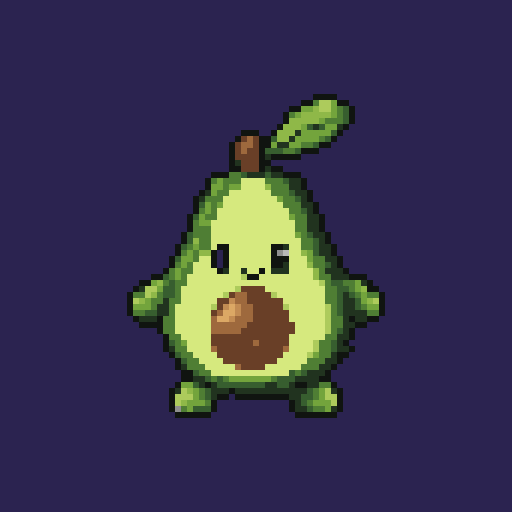
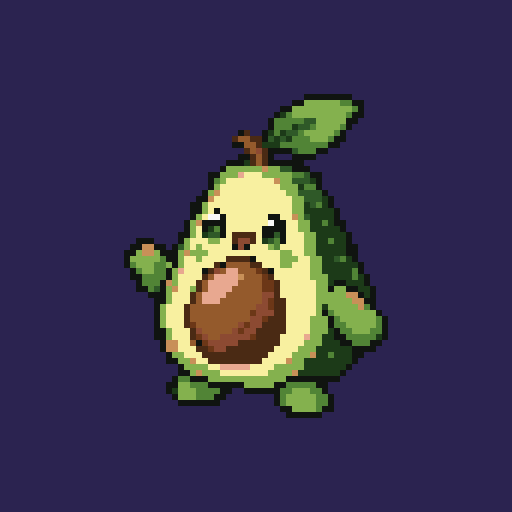
Aguacatito: new 56x56 pixel art (exact, master palette); art page shows the art first
The color palette moved to the bottom of the art page. App icons regenerated.

Changed region(s): [[0.2188, 0.1562, 0.7812, 0.8438]]

diff --git a/src/style/palabritas.ts b/src/style/palabritas.ts
@@ -5,7 +5,7 @@
   54 px tall so it clears the health boxes.
   Palabritas not listed here are drawn from shapes in art/creatures.ts.
 
-  Sources (made with ChatGPT, turned back into real pixels): art-src/avocado palabrita.png,
+  Sources (made with ChatGPT): art-src/avocado_front.png + avocado_back.png (real 56x56 pixels, master palette: exact),
   art-src/wood_pigeon_front_56x56.png + wood_pigeon_back_56x56.png (real 56x56 pixels, colors grouped),
   art-src/Salchichita_front.png + Salchichita_back.png (real 56x56 pixels, master palette: exact).
 */
@@ -17,118 +17,122 @@ export interface SpriteArt {
 
 export const PALABRITA_ART: Record<string, SpriteArt> = {
   aguacatito: {
-    pal: {'a': '#375e2f', 'b': '#101410', 'c': '#4f7e34', 'd': '#d6e97e', 'e': '#73a43c', 'f': '#693f27', 'g': '#8fb848', 'h': '#21331f', 'i': '#adcb5c', 'j': '#9e693d', 'k': '#c28b53', 'l': '#dca865', 'm': '#8f8f8f', 'n': '#b8b8b8'},
+    pal: { a: '#1c3a18', b: '#101410', c: '#84b14e', d: '#518436', e: '#f8f0a0', f: '#2f5928', g: '#4a2a14', h: '#945a2c', i: '#8c4a32', j: '#c89058', k: '#e8a890', l: '#6c3717', m: '#f8f8f8' },
     front: [
-      '...............................bbbb........',
-      '.............................bbciiebb......',
-      '...........................bbeegiiecab.....',
-      '..........................bcegggggecab.....',
-      '..........................bgggggecccab.....',
-      '.........................bgggeahaeehb......',
-      '...................bbb..bgggheeeeeab.......',
-      '..................bfjfbbaggheeeecab........',
-      '.................bfjjfbbehheeccabb.........',
-      '.................bfjffbaaaccabbb...........',
-      '.................bffffbhbbbbb..............',
-      '.................bhfffbb...................',
-      '.................bbfffbhbb.................',
-      '..............bbbccahhhahhbbb..............',
-      '.............bcecccddddcccahhb.............',
-      '.............beeceeddddgccchhb.............',
-      '............bheccdddddddcccahhb............',
-      '...........bhcccdddddddddeccahb............',
-      '...........baeceddddddddddccchhb...........',
-      '...........bcecddddddddddddccahb...........',
-      '..........baeccddddddddddddecchhb..........',
-      '..........bceeddddddddddddddcchhb..........',
-      '..........bcccddddddddddddddcchhb..........',
-      '.........bacccddddddddddddddecahhb.........',
-      '.........bagccdddddddddddddddccahb.........',
-      '........baceccdbbdddddddbbhddccahhb........',
-      '........bcecggb.bdddddddbmnddgeahhb........',
-      '.......baeecddb.bdddddddbbbdddecchhb.......',
-      '.......bcecdddb.bdddddddbbhdddgccahb.......',
-      '......bceccddddbhddhddbdhhhddddgchhhb......',
-      '....bbacecdddddddddibbdddddddddgcchhhbbb...',
-      '..bbegcaccddddddddddddddddddddddicaaccehb..',
-      '.bhiieaacdddddddddiffffddddddddddccaacegbb.',
-      'bccigcaacdddddddifjjffffiddddddddccahaceccb',
-      'bigecchccddddddffkjjffffffdddddddccahhaegib',
-      'beeechhcddddddifklkjjfffffiddddddicahhaceeb',
-      'bccaahhcddddddfjllkjjffffffddddddicahhhhccb',
-      '.bhhhbccddddddjllkjjjffffffddddddicchbhhbb.',
-      '..bbbbccddddddjjjjjjffffffffdddddicchhbb...',
-      '.....bccddddddjjjjjfffffffffdddddicahb.....',
-      '......bccdddddfffffffffffffddddddcchhb.....',
-      '......baceddddfffffffjfffffddddiccahb......',
-      '......bhccddddjfffffffffffjddddiccahhb.....',
-      '.......baccddddfffffffffffddddiecchbb......',
-      '........baccddddfffffffffdddddccchhb.......',
-      '........bhcccdddddjffffddddddccchhb........',
-      '.........bbaccdddddddddddddacahhhb.........',
-      '.........bbhhacaceeeeeeecaaahhhhbb.........',
-      '........beeahbhaaaaaaaahhaahbbhhccb........',
-      '.......bhigecahhhbhhhhhhhhhhhhaceihb.......',
-      '.......biiiecahbb.bbbbbbbbbhhaaceiib.......',
-      '.......bigeeecb............bhaceeeib.......',
-      '.......bmceaaab............bhhaccehb.......',
-      '........bbbbbb..............bbbbbbb........',
+      '........................................................',
+      '....................................bbbbbbbb............',
+      '..................................bbccccccddbb..........',
+      '................................bbccccccccccdb..........',
+      '...............................badcccccccccdbb..........',
+      '..............................bdddddffcccccbb...........',
+      '..............................bdddaffdccccdb............',
+      '.........................bg..badaffdcccccdb.............',
+      '........................ghhggbfafadddcccdbb.............',
+      '........................bbhhgaaaddddddddbb..............',
+      '..........................ghigbbbbfdddbb................',
+      '.........................bbghgb...bbbb..................',
+      '.......................bbbaghgbbbbbb....................',
+      '......................bccccccjccffbbb...................',
+      '....................bbccckeeecccccddfbb.................',
+      '....................bdceeeeeeeejccfffab.................',
+      '....................bceeeeeeeeeecccaddb.................',
+      '...................bcjeeeeeeeeeeeccffffb................',
+      '..................bbjeeeeeeeeeeeeeccfffab...............',
+      '.................bbceeeeeeeeeeeeeeccafdab...............',
+      '.................bbcebeeeeeeeeeeeeccaaaaab..............',
+      '.................bcemmbeeeeeeebbeejcfaaaab..............',
+      '................bcjbbbbeeeeeeembbeeccaadabb.............',
+      '................bcebadbeeeeeebbbbeeccaaaaab.............',
+      '...............bbceaffbeggggebbfbeeeccaaaaab............',
+      '........bbb....bceeecceegiigeafdbeeeccaadaab............',
+      '.......bbjjbb.bfceceeeeebibeeecdeeeeccaaaaabb...........',
+      '......bbcjjcbbbcjccceeeeeeeeeeeecceeccaaaaabb...........',
+      '......bcccccdbbceeceeeeggggbeeeeccceeccaafdab...........',
+      '......bdcccddcbceeeeegbhhhhggeeecceeeccaaaaaab..........',
+      '.......bdccddbckeeebgihkkhhhlgbeeeeeeccaaaaadb..........',
+      '.......bbddddbceeeeghkkkkjhhhlgeeeeeecccaaaadab.........',
+      '........bdddbjceeeghkkkkkhhhhllgeeeeeeccabbaaab.........',
+      '........bbdfbcjeecghkkkkhhhhhllgeeeeeeccbccbbaab........',
+      '..........bbbceeeghkkkkhhhhhhiigeeeeeecccccjjbab........',
+      '...........bbceeeghkkkhhhhhhhilggeeeeeccccccjjbb........',
+      '...........bceeeghhhhhhhhhhhiilggeeeeecacccccjdb........',
+      '...........bceeeghhhhhhhhhhliiiggeeeeecbdcccccccb.......',
+      '...........bceeeghhhhhhhhhhiilgggeeeecccbdccccccdb......',
+      '...........bceeeglhhhhhhhiliiggggeeeecccbddcccccdb......',
+      '...........bbceeegihhhhhiliigggggeeeecccabddcccddb......',
+      '...........bbceeeglihhiiiiilggggeeeekccaabbdddddab......',
+      '............bjjeehbliiiiigggggggeeeecccaaabbdddbb.......',
+      '............bjjeeeggliiggggggggeeeecccaaaaaabbbb........',
+      '.............bcceeegggggggggggeeeecccjaadaaabb..........',
+      '.............bbccjeegggggggggeeeejccaaaaaaaab...........',
+      '...............bcccceekkkkkeeeecccccaaaaaaab............',
+      '...............bbcjccceeeeeeeeccccjaaaaaaab.............',
+      '..............bddbbbcccccccccccccbbbbbbbbb..............',
+      '.............bbccdddbbbbbbcccccbbdddddbb................',
+      '.............bacccddddbb..bbbbbbddcccddb................',
+      '..............bcccdddbb........bdcccccddb...............',
+      '...............bbbbbbb.........bdcccccddb...............',
+      '................................bbccccdbb...............',
+      '.................................bbbbbb.................',
+      '........................................................',
     ],
     back: [
-      '.................................bbbb.......',
-      '.............................bbbbiieab......',
-      '............................baegeiieecb.....',
-      '...........................begggggeeccb.....',
-      '...........................bgggggeccccb.....',
-      '..........................beigechaechb......',
-      '....................bb...bggehaegeecb.......',
-      '...................bjfb.bcgehgeeecab........',
-      '..................bjjfbbbeheeecaabb.........',
-      '..................bjffbhchacaabbb...........',
-      '..................bjffbbhbbbbb..............',
-      '..................bfffbbbb..................',
-      '.................bbbffbhhbb.................',
-      '..............bbbacaaaaaaahbbb..............',
-      '.............bccgecccaaaaaaahhb.............',
-      '.............bceeecccaaaaaaahhhb............',
-      '............bbeeecccacaaaaaaahhb............',
-      '...........bhceeccccacaaaaaaahhbb...........',
-      '...........bcegeccccacaaaaaaaaahhb..........',
-      '...........bceeccccccaaaaaaaaaahhb..........',
-      '..........baceececaacaaaaaaaaaahhb..........',
-      '..........bacececcccaaaaaaaaaaaahhb.........',
-      '..........bccceeccaacaaaaaaaaaaahhb.........',
-      '.........bacccecccaacaaaaaaaaaaahhb.........',
-      '.........baceecccacacaaaaaaaaaaahhhb........',
-      '........bhccceccacccaaaaaaaaaaaahhhb........',
-      '........baccccccccccaaaaaaaaaaaaahhhb.......',
-      '.......baccceccccccaaaaaaaaaaaaaahhhb.......',
-      '.......bcccecccccccaaaaaaaaaaaaahahhhb......',
-      '......bacaceccccccaaaaaaaaaaaaaahahhhbb.....',
-      '....bbhcaccccccccaaaaaaaaaaaaaaahahhhhhb....',
-      '..bbcecaaccccccccacaaaaaaaaaaahhahahhaceb...',
-      '.beigechacacccccaacaaaaaaaaaahhaaahhhhacgbb.',
-      'bcgiecahcaacccccacaaaaaaaaaaaaaaahhhhhacgccb',
-      'bigecahhcacccccaacaaaaaaaaaaaaaahhhhhhhaegib',
-      'bgecahhhcaccccaacaaaaaaaaaaaaaaahhhhhbhhcceb',
-      'bccaahbaaaccccacaaaaaaaaaaaaaaahhahhhbhhaccb',
-      '.bhhhbhaacaacacaaaaaaaaaaaaaaaahahhhhhbhhbb.',
-      '..bbbbaaaacaacaaaaaaaaaaaaaaaaaahhhhhhhbb...',
-      '.....baaaaaccaaaaaaaaaaaaaaaaaahahhhhhhb....',
-      '......baaaaaaaaaaaaaaaaaaaaaahahhhhhhhb.....',
-      '......bhaaahaaaaaaaaaaaahaaahahhhhhhhhb.....',
-      '......bhhaaaaaaaaaaaaaaahaahahhhhhhhhhb.....',
-      '.......bhhaahhaaaaaaaahaaahaahhhhhhhbb......',
-      '.......bhhhaahaaaaaaahaaahahhhhhhhhhb.......',
-      '........bhhhaahhaaaahhaahhhhhhhhhhhhb.......',
-      '.........bhhhhaahhahaahhhhhhhhhhhhhb........',
-      '..........bbhhhhhhhhhhhhhhhhhhhhhbb.........',
-      '.........bcahhbhhhhhhhhhhhhhhbbbhhcb........',
-      '........bhiecahhhbbbbbbbbbbhhhhhaciab.......',
-      '........biiecahhb..........bhhhhaeiib.......',
-      '........bieecchb............bbhaceeib.......',
-      '........bhecaahb..............bbhacb........',
-      '.........bbbbbb.................bbb.........',
+      '........................................................',
+      '..............bbbbbbb...................................',
+      '............bbbdcccccbb.................................',
+      '............bddddccccccbbb..............................',
+      '.............bdddddddddddbb.............................',
+      '.............bbdddddaaddddb.............................',
+      '.............bbddddddaaddddb............................',
+      '..............bfddddddaaaddbb...........................',
+      '...............bfddddddaaaaab.gbbg......................',
+      '...............bbffdddddddaabbihhb......................',
+      '................bbbddddbbbbaghhgg.......................',
+      '...................bbbbb...bghig........................',
+      '........................bbbbihgbb.......................',
+      '......................bbbaagligabb......................',
+      '....................bbaaaaaaaadccbb.....................',
+      '...................bbaaddaddadddddbb....................',
+      '..................baaaaaaaaaadddddcfb...................',
+      '.................bbaaaaaaaaaaffccdddb...................',
+      '................bbaaadaaaaddaafffddddb..................',
+      '................bbaaadaaaaddafdffdcddb..................',
+      '................baaaaaaafaaaffffffffffb.................',
+      '...............baaaaaaaaaaaaffffffffcdb.................',
+      '...............bafdaaaaaaadffffccffffdb.................',
+      '..............baafdaaddaaadffffccfffffdb................',
+      '..............baaaaaafaaaaaafffffffccffb................',
+      '.............bbfaaaaaaaaaaaafffffffaaffab...............',
+      '.............baaaaaaaaaaaaaaafdcffffffffb...............',
+      '............bbaaaaddaaaaaddaafdcfffffccfbb..............',
+      '............bbaaaaaaaaaaafdaaffffffffffffb..............',
+      '............baadaaaaaaaaaaaaafffffccfffffbb.............',
+      '...........baaaaaaaaaadaaaaadfffffaffccfdbb.............',
+      '.........bbbaaaaaaaaaaaaaaaadafffffffccfffb.............',
+      '........bbcbaaaaddaaaaaaaaaaaafffffffffffffb............',
+      '.......bbccbaaaaddaaaaaaaaaaaaffccfffffffbbbb...........',
+      '.......bccfbadfaaaaaaaaafaaaaaffaaffffffaccjbbb.........',
+      '......bcccfbaaaaaaaaddaaaadfaafffffffffacccjjjjb........',
+      '......bdddabaaaaaaaaddaaaadfaaafffffccabcccccjjbb.......',
+      '......bdddabaaaaaaaaaaaaaaaaaaacffffccabdcccccjjb.......',
+      '.......bdfabaadaadfaaaafaaaaaaacfffffffbadcccccccb......',
+      '.......bbffbaadaaaaaaaaaaaaaaaaaffffffffbddcccccdb......',
+      '.........bbbaaaaaaaaaaaaddaaaaafffccfffffbdddddddb......',
+      '...........baaaaaaaaaaaaddaaaaaaffccfffffabdddddb.......',
+      '............bafaaaaddaaaaaaaaaaaafaaffccfaabbbbbb.......',
+      '............baaadaaddaaaaaaaddaaafffffcdffabbbbb........',
+      '............bbaafaaaaaaaaaaaaaaaaaffffaaffbb............',
+      '.............baaaaaaaaaaaaaaaaaaaaaaafaaaab.............',
+      '..............bbaaaaaaaddaaaaaaaddaaaaaaabb.............',
+      '...............bbbaaaaaddaaaaaaaaaaaaaaabb..............',
+      '..............bbdbbaaaaaaaaaddaaaaaaaddbb...............',
+      '.............bbddddbbbaaaaaadfaaaabbddddfb..............',
+      '.............bbdddddddbbbbbaaaaabbddddcccb..............',
+      '.............bbdddddddb...bbbbbbbdddddccccb.............',
+      '..............baaaaabbb.........badddcccccb.............',
+      '...............bbbbbb............bbdddcccbb.............',
+      '..................................bbbbbbbb..............',
+      '........................................................',
     ],
   },
   palomon: {

diff --git a/src/dev/art.ts b/src/dev/art.ts
@@ -44,45 +44,6 @@ function card(grid: HTMLElement, label: string, images: Img[], scale: number) {
 
 buildCreatureArt();
 
-// ---------- The master palette ----------
-
-const pal = section('Color palette', 'The colors new art may use (style/colors.ts, PALETTE). Each family runs dark to light. A sprite uses about 8-16 of them.');
-const swatches = document.createElement('canvas');
-swatches.id = 'palette';
-const SW = 64;
-const families = Object.entries(PALETTE);
-swatches.width = 110 + SW * Math.max(...families.map(([, c]) => c.length));
-swatches.height = SW * families.length;
-{
-  const g = swatches.getContext('2d')!;
-  g.fillStyle = '#ffffff';
-  g.fillRect(0, 0, swatches.width, swatches.height);
-  g.font = 'bold 16px sans-serif';
-  g.textBaseline = 'middle';
-  families.forEach(([name, colors], row) => {
-    g.fillStyle = '#222';
-    g.fillText(name, 8, row * SW + SW / 2);
-    colors.forEach((c, i) => {
-      g.fillStyle = c;
-      g.fillRect(110 + i * SW, row * SW, SW - 4, SW - 4);
-      g.fillStyle = parseInt(c.slice(1, 3), 16) + parseInt(c.slice(3, 5), 16) + parseInt(c.slice(5, 7), 16) > 380 ? '#000' : '#fff';
-      g.font = '11px monospace';
-      g.fillText(c, 110 + i * SW + 4, row * SW + SW - 14);
-      g.font = 'bold 16px sans-serif';
-    });
-  });
-}
-swatches.style.imageRendering = 'auto';
-const list = Object.assign(document.createElement('pre'), {
-  id: 'palette-text',
-  textContent: families.map(([n, c]) => `${n}: ${c.join(', ')}`).join('\n'),
-});
-const palCard = document.createElement('div');
-palCard.className = 'card';
-palCard.style.textAlign = 'left';
-palCard.append(swatches, list);
-pal.appendChild(palCard);
-
 const mons = section('Palabritas', 'Front (the opponent sees this) and back (yours in battle). Palabritas with hand-made art (style/palabritas.ts) have a real back view; the others use their mirrored front.');
 for (const [id, art] of Object.entries(CREATURE_ART)) card(mons, SPECIES[id]?.name ?? id, [art.front, art.back], 3);
 
@@ -149,3 +110,42 @@ for (const [size, scale] of ICON_SIZES) {
   el.append(c, a);
   icons.appendChild(el);
 }
+
+// ---------- The master palette ----------
+
+const pal = section('Color palette', 'The colors new art may use (style/colors.ts, PALETTE). Each family runs dark to light. A sprite uses about 8-16 of them.');
+const swatches = document.createElement('canvas');
+swatches.id = 'palette';
+const SW = 64;
+const families = Object.entries(PALETTE);
+swatches.width = 110 + SW * Math.max(...families.map(([, c]) => c.length));
+swatches.height = SW * families.length;
+{
+  const g = swatches.getContext('2d')!;
+  g.fillStyle = '#ffffff';
+  g.fillRect(0, 0, swatches.width, swatches.height);
+  g.font = 'bold 16px sans-serif';
+  g.textBaseline = 'middle';
+  families.forEach(([name, colors], row) => {
+    g.fillStyle = '#222';
+    g.fillText(name, 8, row * SW + SW / 2);
+    colors.forEach((c, i) => {
+      g.fillStyle = c;
+      g.fillRect(110 + i * SW, row * SW, SW - 4, SW - 4);
+      g.fillStyle = parseInt(c.slice(1, 3), 16) + parseInt(c.slice(3, 5), 16) + parseInt(c.slice(5, 7), 16) > 380 ? '#000' : '#fff';
+      g.font = '11px monospace';
+      g.fillText(c, 110 + i * SW + 4, row * SW + SW - 14);
+      g.font = 'bold 16px sans-serif';
+    });
+  });
+}
+swatches.style.imageRendering = 'auto';
+const list = Object.assign(document.createElement('pre'), {
+  id: 'palette-text',
+  textContent: families.map(([n, c]) => `${n}: ${c.join(', ')}`).join('\n'),
+});
+const palCard = document.createElement('div');
+palCard.className = 'card';
+palCard.style.textAlign = 'left';
+palCard.append(swatches, list);
+pal.appendChild(palCard);
